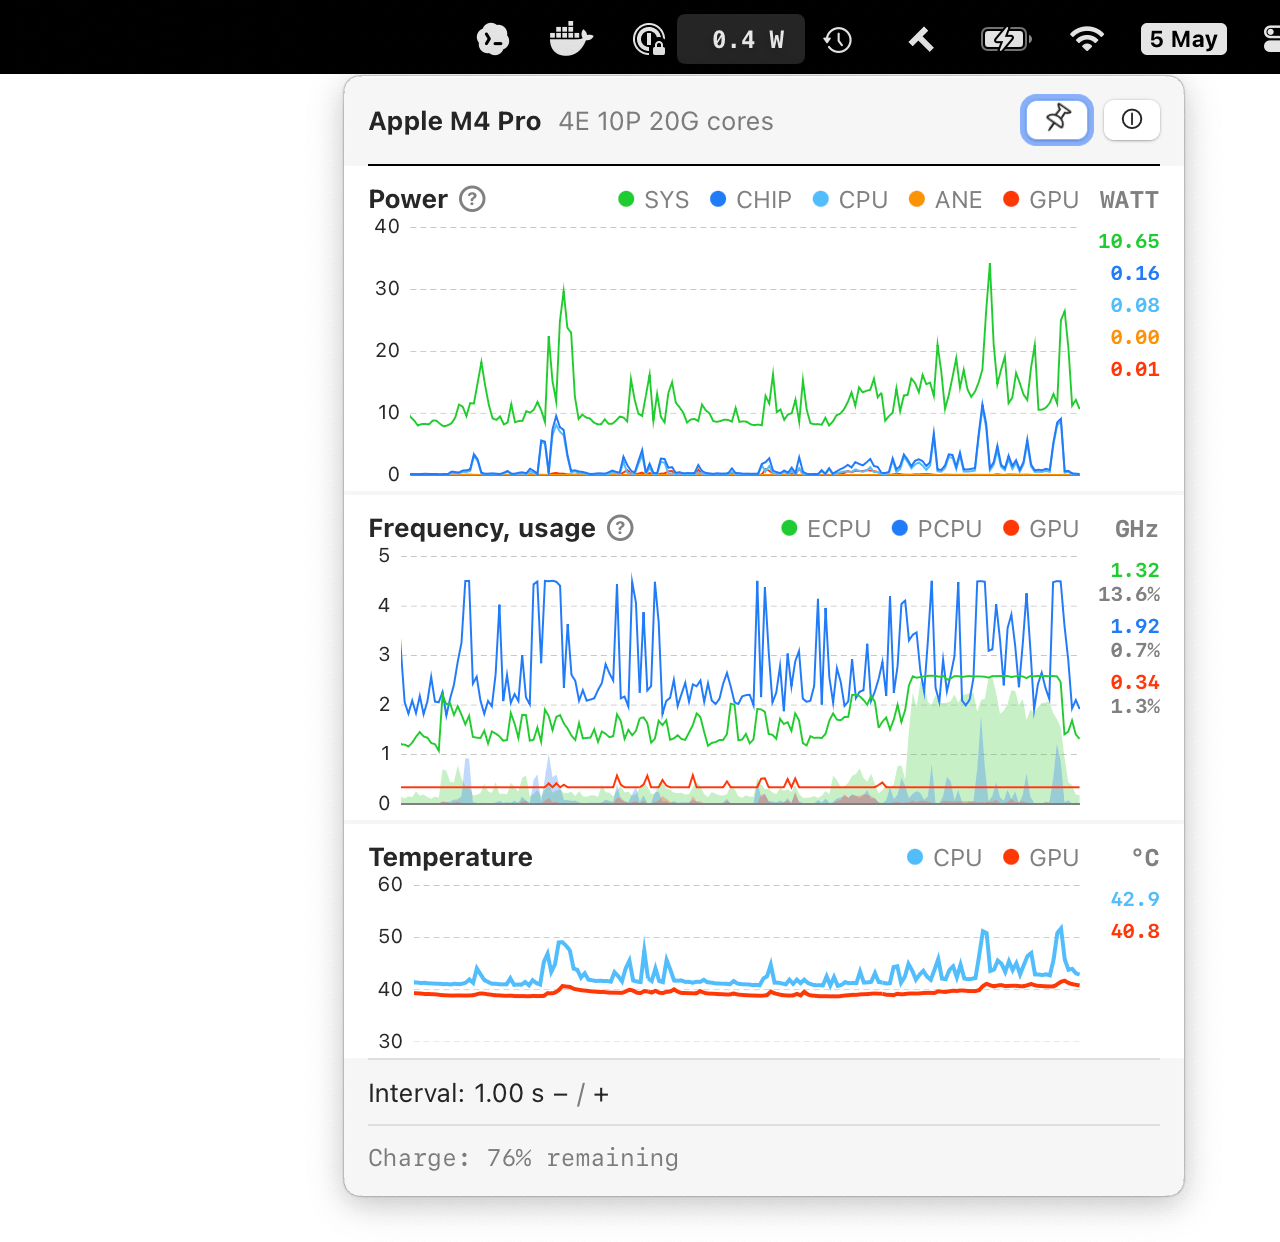
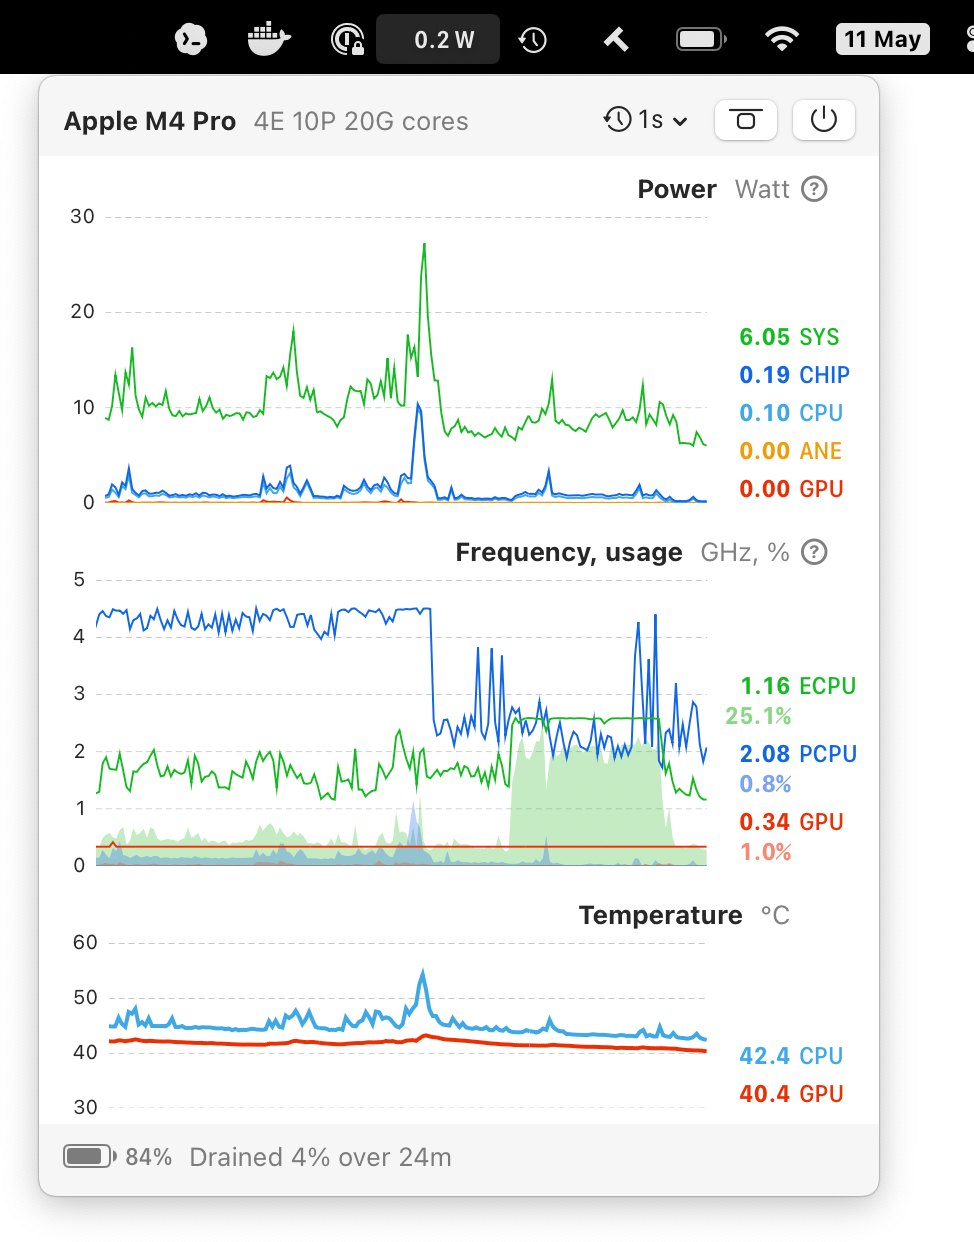
Update app screenshot

diff --git a/docs/index.html b/docs/index.html
@@ -49,12 +49,12 @@
     .popover {
       position: absolute;
       top: 0;
-      margin: 0 0 0 360px;
+      margin: 0 0 0 512px;
       z-index: -1;
     }
 
     .popover img {
-      width: 640px;
+      width: 487px;
       display: block;
       height: auto;
     }

diff --git a/README.md b/README.md
@@ -12,9 +12,7 @@ Main features:
 - A menu bar popover that can be pinned as a regular window.
 - Battery session tracking, such as 15% used over 2 hours since the last charge.
 
-<p align="right">
-    <img src="docs/app.png" alt="StillCore app screenshot" width="640">
-</p>
+<img src="docs/app.png" alt="StillCore app screenshot" width="487">
 
 StillCore is for everyday monitoring rather than deep profiling. It is built on top of [macmon](https://github.com/vladkens/macmon), which provides the core Apple Silicon metrics.
 
@@ -39,6 +37,7 @@ During development, I paid attention to StillCore's own footprint. The table bel
 
 | App | Mode | 100ms update interval | 1 sec update interval |
 | --- | --- | --- | --- |
+| | | `CHIP`: `CPU` + `GPU` | `CHIP`: `CPU` + `GPU` |
 | **StillCore** | In tray<br>Interactive | `0.03`: `0.01` + `0.00`<br>`0.12`: `0.03` + `0.02` | `0.02`: `0.01` + `0.00`<br>`0.04`: `0.02` + `0.00` |
 | **Stats** 2.12.12 | In tray<br>Interactive | -<br>- | `0.04`: `0.01` + `0.00`<br>`0.06`: `0.02` + `0.00` |
 | **iStat Menus** 7.2 | In tray<br>Interactive | -<br>- | `0.02`: `0.00` + `0.00`<br>`0.03`: `0.01` + `0.00` |
